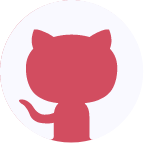
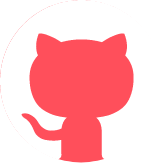
update: bordo color

diff --git a/src/components/skills/softSkill.js b/src/components/skills/softSkill.js
@@ -30,7 +30,7 @@ const SoftSkill = ({name, progress}) => {
                 value={progress} text={`${progress}%`} 
                 styles={buildStyles({
                     textSize: '13px',
-                    pathColor: `#D24D60`,
+                    pathColor: `#FF4F5B`,
                     textColor: 'white',
                     trailColor: '#1E1E24',
                     backgroundColor: '#1E1E24',

diff --git a/src/styles/colors.js b/src/styles/colors.js
@@ -1,4 +1,4 @@
 export const dark = '#100E17';
 export const gray = '#1E1E24';
-export const bordo = '#D24D60';
+export const bordo = '#FF4F5B';
 export const purple = '#613455';
